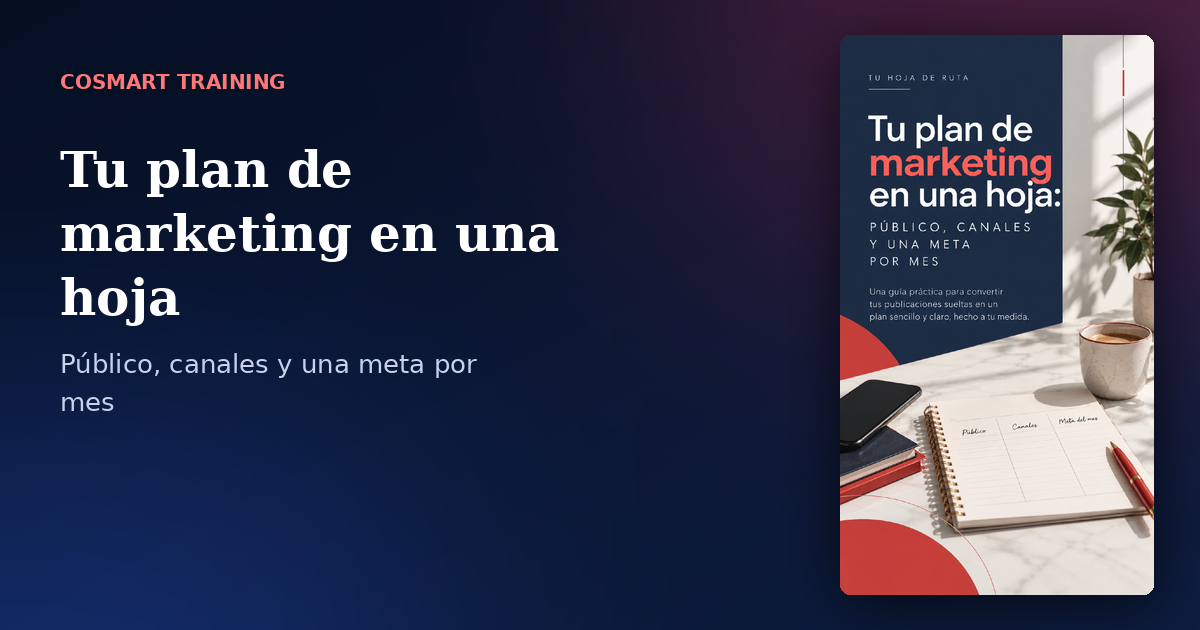
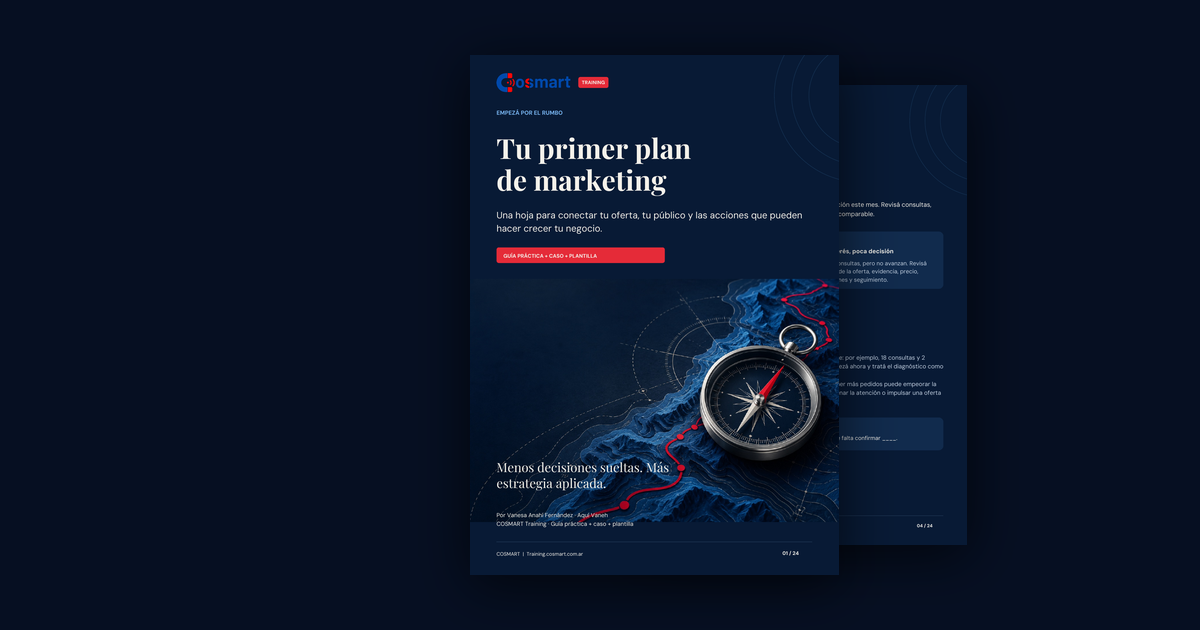
Producto 'Tu plan de marketing en una hoja' pasa a 'Tu primer plan de marketing' (landing, tienda, ficha, imágenes, llms)
Claude-Session: https://claude.ai/code/session_01Jpn2kB94HZBcFU2j3UAfkk

diff --git a/tu-plan-de-marketing-en-una-hoja.html b/tu-plan-de-marketing-en-una-hoja.html
@@ -2,14 +2,14 @@
 <html lang="es">
 <head>
 <script>/* si entran por /pagina.html, se muestra y se guarda la dirección limpia /pagina */(function(){var p=location.pathname;if(/\.html$/.test(p)){p=p.replace(/\/index\.html$/,"/").replace(/\.html$/,"");location.replace(p+location.search+location.hash);}})();</script>
-<meta charset="UTF-8"><script data-anticlon>(function(){var A=["cosmart.com.ar"],P=["training-1wj.pages.dev"],U="https://training.cosmart.com.ar",W="<head><meta charset=\"utf-8\"><meta name=\"viewport\" content=\"width=device-width,initial-scale=1\"><meta name=\"robots\" content=\"noindex,nofollow\"><title>Tu plan de marketing en una hoja: público, canales y una meta por mes — COSMART Training</title></head><body style=\"margin:0;min-height:100vh;display:flex;align-items:center;justify-content:center;background:#0b1220;color:#fff;font-family:system-ui,-apple-system,Segoe UI,Arial,sans-serif;text-align:center;padding:24px;box-sizing:border-box\"><div style=\"max-width:520px\"><svg width=\"64\" height=\"64\" viewBox=\"0 0 24 24\" fill=\"none\" stroke=\"#ffd23f\" stroke-width=\"2\" stroke-linecap=\"round\" stroke-linejoin=\"round\" aria-hidden=\"true\"><path d=\"M10.3 3.9 1.8 18a2 2 0 0 0 1.7 3h17a2 2 0 0 0 1.7-3L13.7 3.9a2 2 0 0 0-3.4 0z\"/><path d=\"M12 9v4M12 17h.01\"/></svg><h1 style=\"font-size:28px;margin:16px 0 12px;color:#fff\">ATENCI\u00d3N</h1>
+<meta charset="UTF-8"><script data-anticlon>(function(){var A=["cosmart.com.ar"],P=["training-1wj.pages.dev"],U="https://training.cosmart.com.ar",W="<head><meta charset=\"utf-8\"><meta name=\"viewport\" content=\"width=device-width,initial-scale=1\"><meta name=\"robots\" content=\"noindex,nofollow\"><title>Tu primer plan de marketing — COSMART Training</title></head><body style=\"margin:0;min-height:100vh;display:flex;align-items:center;justify-content:center;background:#0b1220;color:#fff;font-family:system-ui,-apple-system,Segoe UI,Arial,sans-serif;text-align:center;padding:24px;box-sizing:border-box\"><div style=\"max-width:520px\"><svg width=\"64\" height=\"64\" viewBox=\"0 0 24 24\" fill=\"none\" stroke=\"#ffd23f\" stroke-width=\"2\" stroke-linecap=\"round\" stroke-linejoin=\"round\" aria-hidden=\"true\"><path d=\"M10.3 3.9 1.8 18a2 2 0 0 0 1.7 3h17a2 2 0 0 0 1.7-3L13.7 3.9a2 2 0 0 0-3.4 0z\"/><path d=\"M12 9v4M12 17h.01\"/></svg><h1 style=\"font-size:28px;margin:16px 0 12px;color:#fff\">ATENCI\u00d3N</h1>
       <div class="quote">
       <h2>Publicás cuando te acordás, sentís que hacés presencia, pero a fin de mes no sabés si sirvió.</h2>
       <p>No es que no sepas vender: nadie te enseñó a convertir tus ideas en un plan con público definido, canales elegidos y una meta por mes.</p>
     </div><p style=\"font-size:18px;line-height:1.5;margin:0 0 24px;color:#fff\">Atenci\u00f3n: esta NO es la p\u00e1gina oficial de COSMART Training. Entr\u00e1 solo a training.cosmart.com.ar</p><a href=\"https://training.cosmart.com.ar\" target=\"_blank\" rel=\"noopener\" style=\"display:inline-block;background:#F80808;color:#fff;text-decoration:none;font-weight:700;padding:14px 28px;border-radius:10px;font-size:17px\">Ir a la p\u00e1gina oficial</a></div></body>";var h=location.hostname.toLowerCase();function m(a){for(var i=0;i<a.length;i++){var d=a[i];if(h===d||h.slice(-d.length-1)==="."+d)return 1}return 0}if(h===""||h==="localhost"||h==="127.0.0.1"||m(A)||m(P))return;try{window.stop()}catch(e){}try{(new Image()).src=U+"/_clon/"+encodeURIComponent(h)}catch(e){}try{document.documentElement.innerHTML=W}catch(e){}})();</script>
 <meta name="viewport" content="width=device-width,initial-scale=1">
-<title>Tu plan de marketing en una hoja: público, canales y una meta por mes — COSMART Training</title>
-<meta name="description" content="Guía práctica de 12 páginas para convertir tus publicaciones sueltas en un plan simple: público, canales y una meta por mes. Incluye ficha editable para imprimir.">
+<title>Tu primer plan de marketing — COSMART Training</title>
+<meta name="description" content="Guía práctica de 24 páginas con un caso resuelto y una plantilla, para armar tu primer plan de marketing: oferta, público, canales y una meta para los próximos 30 días.">
 <meta name="robots" content="index, follow, max-image-preview:large">
 <link rel="canonical" href="https://training.cosmart.com.ar/tu-plan-de-marketing-en-una-hoja">
 <link rel="alternate" hreflang="es" href="https://training.cosmart.com.ar/tu-plan-de-marketing-en-una-hoja">
@@ -20,8 +20,8 @@
 <link rel="apple-touch-icon" sizes="180x180" href="/images/favicon-180.png?v=3">
 <meta property="og:type" content="product">
 <meta property="og:url" content="https://training.cosmart.com.ar/tu-plan-de-marketing-en-una-hoja">
-<meta property="og:title" content="Tu plan de marketing en una hoja: público, canales y una meta por mes — COSMART Training">
-<meta property="og:description" content="Guía práctica de 12 páginas para convertir tus publicaciones sueltas en un plan simple: público, canales y una meta por mes. Incluye ficha editable para imprimir.">
+<meta property="og:title" content="Tu primer plan de marketing — COSMART Training">
+<meta property="og:description" content="Guía práctica de 24 páginas con un caso resuelto y una plantilla, para armar tu primer plan de marketing: oferta, público, canales y una meta para los próximos 30 días.">
 <meta property="og:image" content="https://training.cosmart.com.ar/images/tu-plan-de-marketing-en-una-hoja/og-tu-plan-de-marketing-en-una-hoja.png">
 <meta property="og:image:width" content="1200">
 <meta property="og:image:height" content="630">
@@ -29,8 +29,8 @@
 <meta property="og:locale" content="es_AR">
 <meta name="twitter:card" content="summary_large_image">
 <meta name="twitter:site" content="@aqui.vaneh">
-<meta name="twitter:title" content="Tu plan de marketing en una hoja: público, canales y una meta por mes — COSMART Training">
-<meta name="twitter:description" content="Guía práctica de 12 páginas para convertir tus publicaciones sueltas en un plan simple: público, canales y una meta por mes. Incluye ficha editable para imprimir.">
+<meta name="twitter:title" content="Tu primer plan de marketing — COSMART Training">
+<meta name="twitter:description" content="Guía práctica de 24 páginas con un caso resuelto y una plantilla, para armar tu primer plan de marketing: oferta, público, canales y una meta para los próximos 30 días.">
 <meta name="twitter:image" content="https://training.cosmart.com.ar/images/tu-plan-de-marketing-en-una-hoja/og-tu-plan-de-marketing-en-una-hoja.png">
 <script type="application/ld+json">
 {
@@ -39,8 +39,8 @@
     {
       "@type": "Product",
       "@id": "https://training.cosmart.com.ar/tu-plan-de-marketing-en-una-hoja#producto",
-      "name": "Tu plan de marketing en una hoja: público, canales y una meta por mes",
-      "description": "Guía práctica de 12 páginas para convertir tus publicaciones sueltas en un plan simple: público, canales y una meta por mes. Incluye ficha editable para imprimir.",
+      "name": "Tu primer plan de marketing",
+      "description": "Guía práctica de 24 páginas con un caso resuelto y una plantilla, para armar tu primer plan de marketing: oferta, público, canales y una meta para los próximos 30 días.",
       "image": "https://training.cosmart.com.ar/images/tu-plan-de-marketing-en-una-hoja/og-tu-plan-de-marketing-en-una-hoja.png",
       "url": "https://training.cosmart.com.ar/tu-plan-de-marketing-en-una-hoja",
       "category": "Guía digital (PDF)",
@@ -214,13 +214,13 @@ footer{background:var(--navy);padding:32px 20px;font-size:13px;color:rgba(255,25
 <header class="hero" id="top">
   <div class="wrap hero-grid">
     <div class="h-copy">
-      <span class="eyebrow">Guía práctica · PDF + ficha editable</span>
-      <h1><span class="t1">Tu plan de marketing en <i>una hoja</i>:</span> <span class="t2">público, canales y una meta por mes</span></h1>
-      <p class="lead">Convertí tus publicaciones sueltas en un plan simple y claro: una hoja con tu público, tus canales y una meta medible por mes.</p>
+      <span class="eyebrow">Guía práctica · Caso resuelto · Plantilla</span>
+      <h1><span class="t1">Tu primer plan <i>de marketing</i></span></h1>
+      <p class="lead">Una hoja para conectar tu oferta, tu público y las acciones que pueden hacer crecer tu negocio.</p>
       <a class="btn" href="#precio">Quiero mi plan</a>
     </div>
     <div class="h-art">
-      <figure class="cover"><img src="/images/tu-plan-de-marketing-en-una-hoja/portada.webp" width="760" height="1352" alt="Portada de la guía Tu plan de marketing en una hoja, de COSMART" fetchpriority="high"></figure>
+      <figure class="cover"><img src="/images/tu-plan-de-marketing-en-una-hoja/portada.webp" width="760" height="1068" alt="Portada de la guía Tu primer plan de marketing, de COSMART" fetchpriority="high"></figure>
       <div class="ficha" aria-hidden="true"><b>Tu hoja</b><div class="cols"><div><span>Público</span><i></i><i></i></div><div><span>Canales</span><i></i><i></i></div><div><span>Meta del mes</span><i></i><i></i></div></div></div>
     </div>
   </div>
@@ -231,7 +231,7 @@ footer{background:var(--navy);padding:32px 20px;font-size:13px;color:rgba(255,25
   <div class="wrap">
     <span class="kicker">Qué incluye</span>
     <h2>Todo lo que recibís</h2>
-    <ul class="hoja-check"><li><svg viewBox="0 0 24 24"><path d="M5 12.5l4.5 4.5L19 7"/></svg><span>Guía en PDF de 12 páginas, con 3 pasos y ejercicios</span></li><li><svg viewBox="0 0 24 24"><path d="M5 12.5l4.5 4.5L19 7"/></svg><span>Plan de acción de 4 semanas</span></li><li><svg viewBox="0 0 24 24"><path d="M5 12.5l4.5 4.5L19 7"/></svg><span>Ficha editable para imprimir</span></li><li><svg viewBox="0 0 24 24"><path d="M5 12.5l4.5 4.5L19 7"/></svg><span>Caso práctico</span></li><li><svg viewBox="0 0 24 24"><path d="M5 12.5l4.5 4.5L19 7"/></svg><span>Los 4 errores que frenan sin que te des cuenta</span></li></ul>
+    <ul class="hoja-check"><li><svg viewBox="0 0 24 24"><path d="M5 12.5l4.5 4.5L19 7"/></svg><span>Guía en PDF de 24 páginas, con ejercicios para aplicar en cada paso</span></li><li><svg viewBox="0 0 24 24"><path d="M5 12.5l4.5 4.5L19 7"/></svg><span>Un caso resuelto, para ver el plan con todas las piezas conectadas</span></li><li><svg viewBox="0 0 24 24"><path d="M5 12.5l4.5 4.5L19 7"/></svg><span>Plantilla de una hoja para completar con tus decisiones</span></li></ul>
   </div>
 </section>
 
@@ -276,7 +276,7 @@ footer{background:var(--navy);padding:32px 20px;font-size:13px;color:rgba(255,25
 
 <script>
 const CORE_API = 'https://cosmart-training-core.conglomeradocosmart.workers.dev';
-const PRODUCTO = { slug: 'tu-plan-de-marketing-en-una-hoja', nombre: 'Tu plan de marketing en una hoja', precio: 14000, precioUsd: 9 };
+const PRODUCTO = { slug: 'tu-plan-de-marketing-en-una-hoja', nombre: 'Tu primer plan de marketing', precio: 14000, precioUsd: 9 };
 function ctSessionId() {
   try { let id = localStorage.getItem('ct_session_id'); if (!id) { id = crypto.randomUUID(); localStorage.setItem('ct_session_id', id); } return id; }
   catch (e) { return 'sin-sesion'; }

diff --git a/404.html b/404.html
@@ -709,25 +709,24 @@ const PRODUCT_DB = {
     tipo: 'simple',
     imagenUrl: '/images/producto-tu-plan-de-marketing-en-una-hoja/01-principal.webp',
     galeria: [
-      { url: '/images/producto-tu-plan-de-marketing-en-una-hoja/02-galeria.webp', label: 'Dónde estás hoy y claridad sobre tu negocio' },
-      { url: '/images/producto-tu-plan-de-marketing-en-una-hoja/03-galeria.webp', label: 'Diseñá tu plan en una sola hoja y ajustalo' },
-      { url: '/images/producto-tu-plan-de-marketing-en-una-hoja/04-galeria.webp', label: 'Tu plan de acción de 4 semanas y los errores a evitar' },
-      { url: '/images/producto-tu-plan-de-marketing-en-una-hoja/05-galeria.webp', label: 'Un caso práctico y las preguntas frecuentes' }
+      { url: '/images/producto-tu-plan-de-marketing-en-una-hoja/02-galeria.webp', label: 'Dónde se frena tu recorrido y qué vas a impulsar' },
+      { url: '/images/producto-tu-plan-de-marketing-en-una-hoja/03-galeria.webp', label: 'Tu objetivo del mes y el recorrido de compra' },
+      { url: '/images/producto-tu-plan-de-marketing-en-una-hoja/04-galeria.webp', label: 'Un caso resuelto y tu ruta de 30 días' },
+      { url: '/images/producto-tu-plan-de-marketing-en-una-hoja/05-galeria.webp', label: 'Tu tablero de seguimiento y la plantilla de una hoja' }
     ],
     badge: '📄 Guía PDF',
-    nombre: 'Tu plan de marketing en una hoja: público, canales y una meta por mes',
-    subpitch: 'Convertí tus publicaciones sueltas en un plan simple y claro: una hoja con tu público, tus canales y una meta medible por mes.',
+    nombre: 'Tu primer plan de marketing',
+    subpitch: 'Una hoja para conectar tu oferta, tu público y las acciones que pueden hacer crecer tu negocio.',
     precio: 14000, precioUsd: 9,
     trustList: [
-      'Guía en PDF de 12 páginas, con 3 pasos y ejercicios',
+      'Guía en PDF de 24 páginas, con ejercicios para aplicar en cada paso',
       'Te llega por mail con el PDF adjunto apenas se acredita el pago',
       'Pago en pesos (Mercado Pago) o en dólares (PayPal)'
     ],
     aprende: [
-      { t: 'Guía de 12 páginas con ejercicios', d: 'Tres pasos para definir tu negocio, armar tu hoja y ajustar tu plan.' },
-      { t: 'Plan de acción de 4 semanas', d: 'Una meta corta por semana que te acerca a la meta del mes.' },
-      { t: 'Ficha editable para imprimir', d: 'Tu público, tus canales y tu meta del mes en una sola hoja.' },
-      { t: 'Un caso práctico y los 4 errores que frenan', d: 'Un ejemplo completo y lo que conviene evitar mientras aplicás tu plan.' }
+      { t: 'Guía de 24 páginas con ejercicios', d: 'Un paso por vez para ordenar tu oferta, tu público, tus canales y tu meta del mes.' },
+      { t: 'Un caso resuelto', d: 'Un plan completo con todas las piezas conectadas, para que lo veas funcionando.' },
+      { t: 'Plantilla de una hoja', d: 'Tus decisiones de los próximos 30 días en una sola hoja para completar.' }
     ],
     faq: [
       { h3: '¿Y si no sé quién es mi clienta ideal?', p: 'Empezás por la persona que más se interesó en lo que ofrecés; la claridad se afina con la práctica.' },

diff --git a/tienda.html b/tienda.html
@@ -374,8 +374,8 @@ const PRODUCTOS = [
     imagenUrl: '/images/producto-tu-plan-de-marketing-en-una-hoja/01-principal.webp',
     badge: '📄 Guía PDF',
     badgeClass: 'ebook',
-    nombre: 'Tu plan de marketing en una hoja',
-    desc: 'Público, canales y una meta por mes, en una sola hoja. Incluye ficha editable.',
+    nombre: 'Tu primer plan de marketing',
+    desc: 'Oferta, público, canales y una meta para 30 días, en una sola hoja. Incluye caso resuelto y plantilla.',
     precio: 14000,
     precioUsd: 9,
   },

diff --git a/HANDOFF.md b/HANDOFF.md
@@ -1,5 +1,11 @@
 # HANDOFF — training (frontend, training.cosmart.com.ar)
 
+## 29/10 — "Tu plan de marketing en una hoja" pasa a "Tu primer plan de marketing" (PDF nuevo de 24 págs.) — EN PRODUCCIÓN
+- **Pedido de Vaneh:** mismo producto (USD 9 / $14.000), PDF nuevo (`COSMART_Plan_de_marketing_ENLACES.pdf`, renombrado al título original `Tu-primer-plan-de-marketing.pdf`). Textos aprobados por ella en el chat. **El slug/URL NO cambió** (`/tu-plan-de-marketing-en-una-hoja`, `/tienda/tu-plan-de-marketing-en-una-hoja`) para no romper links ni SEO.
+- **Frontend:** nombre y copy nuevos en la landing, `tienda.html`, ficha (`404.html`), `llms.txt`; portada, imagen para compartir y galería (5 imágenes) regeneradas desde las páginas del PDF nuevo. Las cards nuevas usan solo páginas oscuras del PDF, salvo la plantilla (p. 21), que es contenido de PDF. Quedan sin tocar: FAQ de la landing, el título del cierre "Tu plan en una hoja, desde hoy" y el mock decorativo "Tu hoja".
+- **Backend (core + mp-productos-ganadores, desplegados 29/10, runs 220/221):** título, resumen, mail de compra y key del archivo (`ebook-tu-plan-de-marketing-en-una-hoja/Tu-primer-plan-de-marketing.pdf`, subido a R2 con `upload-r2-file.yml`). El PDF viejo (`Tu-plan-de-marketing-en-una-hoja.pdf`) queda en R2 sin usar.
+- **Pendiente:** el Linktree (`cosmart/links.html`, rama `claude/linktree-ebooks`) todavía dice "Tu plan de marketing en una hoja"; compra de prueba real (MP y PayPal) para confirmar el PDF adjunto en el mail.
+
 ## 29/10 — Admin: se sacaron las tarjetas de subida de PDFs (lead magnets y e-book de pago)
 - **Regla de Vaneh:** TODOS los PDF los ubica Claude; ella solo los pasa por el chat. Subirlos a mano desde el panel le resultaba engorroso. Se borraron de `admin/dashboard.html` las tarjetas "Lead magnets" y "E-book de pago" y su JS (`subirLeadMagnet`, `cargarEstadoLeadMagnets`, `subirEbookIa`, etc.).
 - **Cómo se sube un PDF ahora:** copiarlo a `seed/uploads/` (o `seed/academy/`) en `cosmart-workers` y correr `upload-r2-file.yml` / `upload-academy-files.yml` con la key correcta (pedirle permiso a Vaneh antes del deploy/workflow, como siempre); después sacar el binario del repo. Guías gratuitas livianas pueden vivir en `descargas/archivos/` de este repo.
